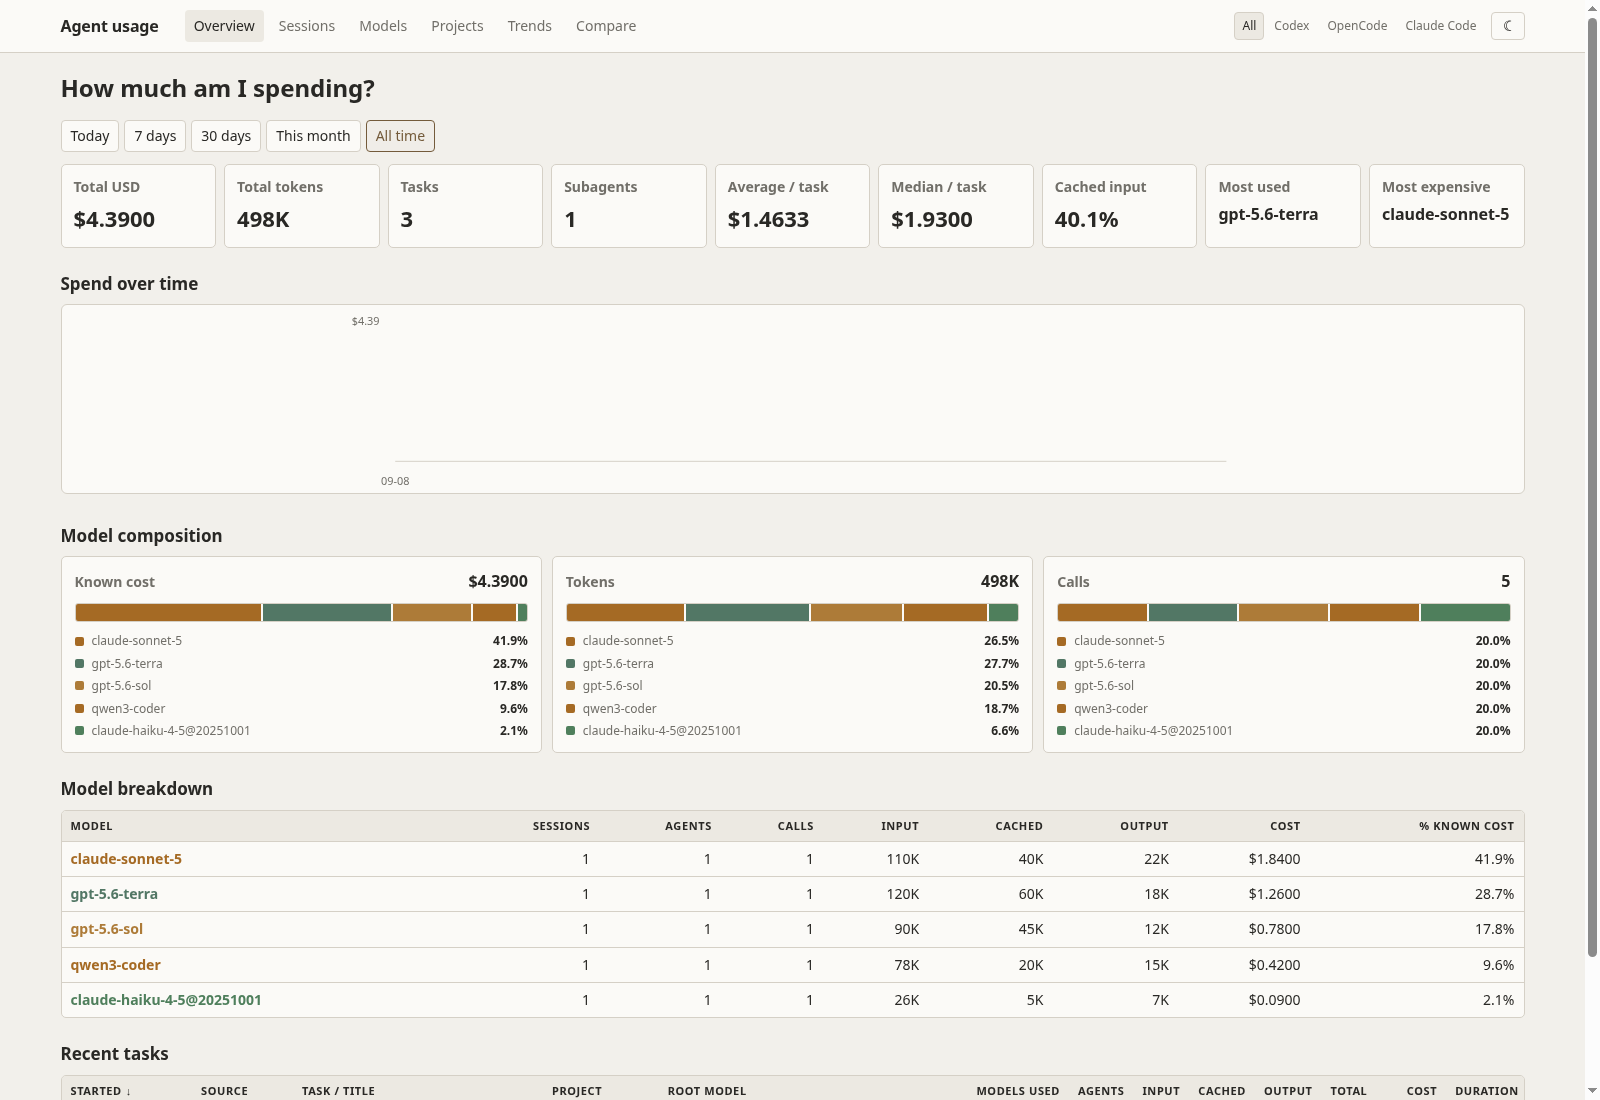
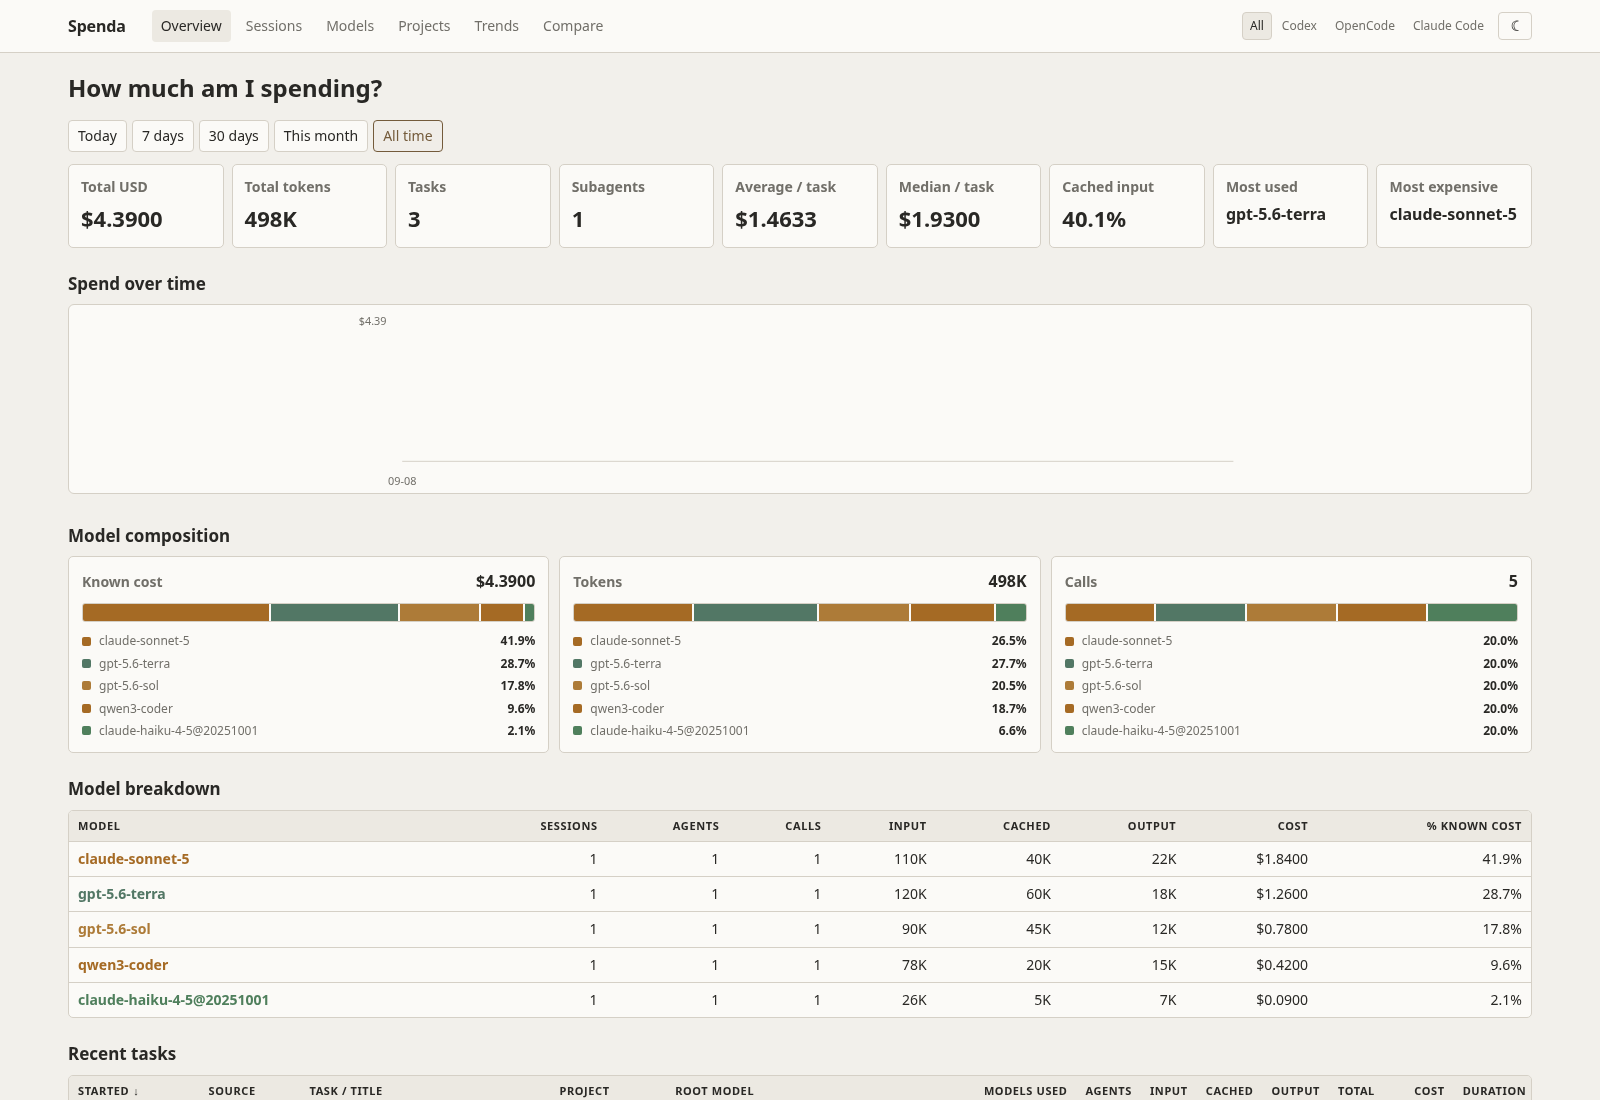
Add project Spenda

diff --git a/src/spenda/web/templates/base.html b/src/spenda/web/templates/base.html
@@ -7,7 +7,7 @@
   {% if refresh %}<meta http-equiv="refresh" content="{{ refresh }}">{% endif %}
   <title>{% block title %}Coding agent usage{% endblock %}</title>
   <script>
-    const savedTheme = localStorage.getItem('codex-dashboard-theme');
+    const savedTheme = localStorage.getItem('spenda-theme');
     if (savedTheme === 'light' || savedTheme === 'dark') document.documentElement.dataset.theme = savedTheme;
   </script>
   <style>
@@ -34,7 +34,7 @@
   </style>
 </head>
 <body>
-<header><nav><strong>Agent usage</strong><a class="{{ 'active' if active=='home' }}" href="/?source={{ source }}">Overview</a><a class="{{ 'active' if active=='sessions' }}" href="/sessions?source={{ source }}">Sessions</a><a class="{{ 'active' if active=='models' }}" href="/models?source={{ source }}">Models</a><a class="{{ 'active' if active=='projects' }}" href="/projects?source={{ source }}">Projects</a><a class="{{ 'active' if active=='trends' }}" href="/trends?source={{ source }}">Trends</a><a class="{{ 'active' if active=='compare' }}" href="/compare?source={{ source }}">Compare</a><span class="source-switch" aria-label="Usage source">{% for item in sources %}<a class="{{ 'selected' if source==item }}" href="{{ source_links[item] }}">{{ source_labels[item] }}</a>{% endfor %}</span><button class="theme-toggle" id="theme-toggle" type="button" aria-label="Switch color theme"></button></nav></header>
+<header><nav><strong>Spenda</strong><a class="{{ 'active' if active=='home' }}" href="/?source={{ source }}">Overview</a><a class="{{ 'active' if active=='sessions' }}" href="/sessions?source={{ source }}">Sessions</a><a class="{{ 'active' if active=='models' }}" href="/models?source={{ source }}">Models</a><a class="{{ 'active' if active=='projects' }}" href="/projects?source={{ source }}">Projects</a><a class="{{ 'active' if active=='trends' }}" href="/trends?source={{ source }}">Trends</a><a class="{{ 'active' if active=='compare' }}" href="/compare?source={{ source }}">Compare</a><span class="source-switch" aria-label="Usage source">{% for item in sources %}<a class="{{ 'selected' if source==item }}" href="{{ source_links[item] }}">{{ source_labels[item] }}</a>{% endfor %}</span><button class="theme-toggle" id="theme-toggle" type="button" aria-label="Switch color theme"></button></nav></header>
 <main>{% block content %}{% endblock %}</main>
 <script>
   const themeToggle = document.getElementById('theme-toggle');
@@ -47,7 +47,7 @@
   themeToggle.addEventListener('click', () => {
     const theme = activeTheme() === 'dark' ? 'light' : 'dark';
     document.documentElement.dataset.theme = theme;
-    localStorage.setItem('codex-dashboard-theme', theme);
+    localStorage.setItem('spenda-theme', theme);
     updateThemeToggle();
   });
   updateThemeToggle();

diff --git a/tests/test_review_regressions.py b/tests/test_review_regressions.py
@@ -8,14 +8,14 @@ from datetime import datetime, timezone
 import pytest
 from starlette.requests import Request
 
-from codex_dashboard.cli import rebuild, tag_command
-from codex_dashboard.config import Settings
-from codex_dashboard.db import database, initialize
-from codex_dashboard.ingestion.scanner import ingest
-from codex_dashboard.pricing import add_price, reprice_usage
-from codex_dashboard.reports import session_rows
-from codex_dashboard.web.app import SESSION_SORT_KEYS, _model_style, _period_boundary, create_app
-import codex_dashboard.web.app as web_module
+from spenda.cli import rebuild, tag_command
+from spenda.config import Settings
+from spenda.db import database, initialize
+from spenda.ingestion.scanner import ingest
+from spenda.pricing import add_price, reprice_usage
+from spenda.reports import session_rows
+from spenda.web.app import SESSION_SORT_KEYS, _model_style, _period_boundary, create_app
+import spenda.web.app as web_module
 from conftest import atomic, make_state, session_meta, thread, turn, usage_values, write_rollout
 
 

diff --git a/src/spenda/web/app.py b/src/spenda/web/app.py
@@ -254,7 +254,7 @@ def create_app(settings: Settings | None = None, *, ingest_interval: float = 10)
                 refresh()
                 stop.wait(max(1, ingest_interval))
 
-        task = threading.Thread(target=loop, name="codex-dashboard-ingest", daemon=True)
+        task = threading.Thread(target=loop, name="spenda-ingest", daemon=True)
         task.start()
         yield
         stop.set()
@@ -262,7 +262,7 @@ def create_app(settings: Settings | None = None, *, ingest_interval: float = 10)
         if task.is_alive():
             log.warning("Background ingestion did not stop within five seconds")
 
-    app = FastAPI(title="Coding Agent Usage Dashboard", lifespan=lifespan)
+    app = FastAPI(title="Spenda", lifespan=lifespan)
     app.state.settings = settings
     templates = Jinja2Templates(directory=str(TEMPLATE_DIR))
     templates.env.filters.update(
